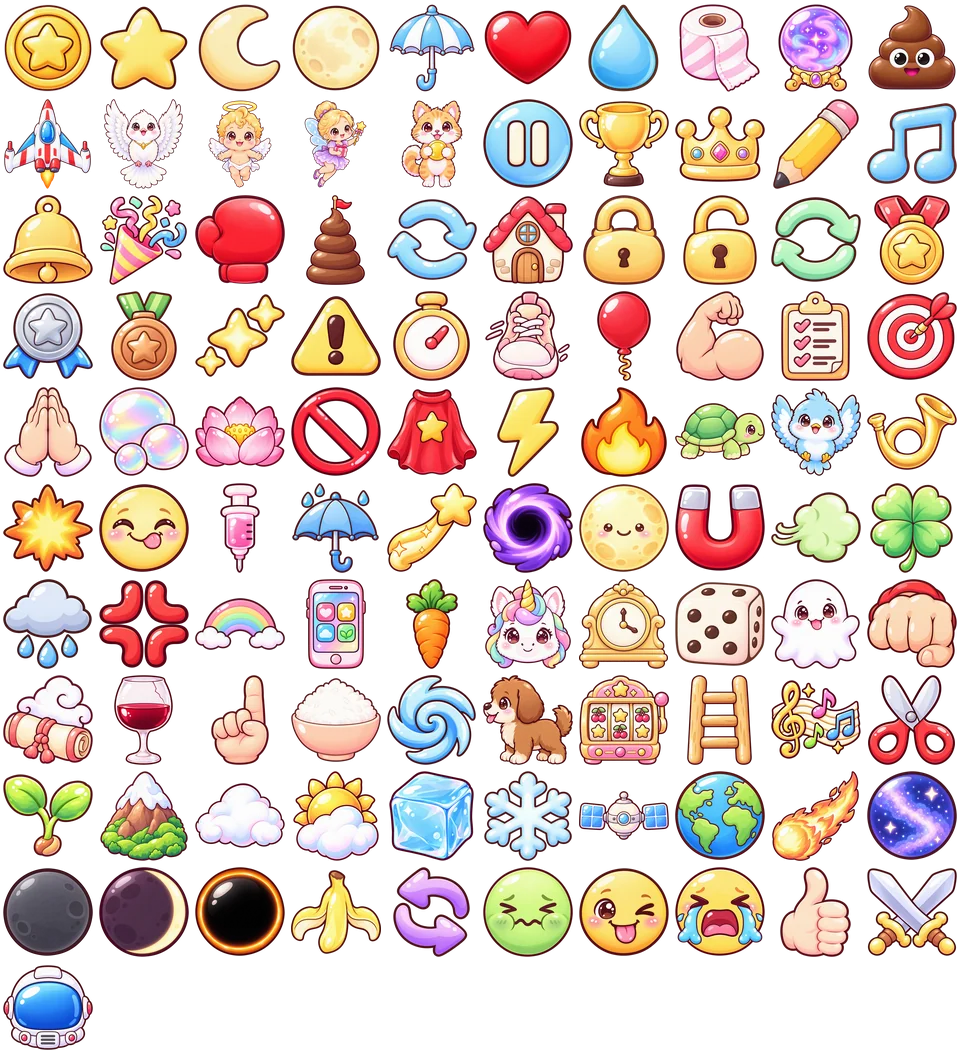
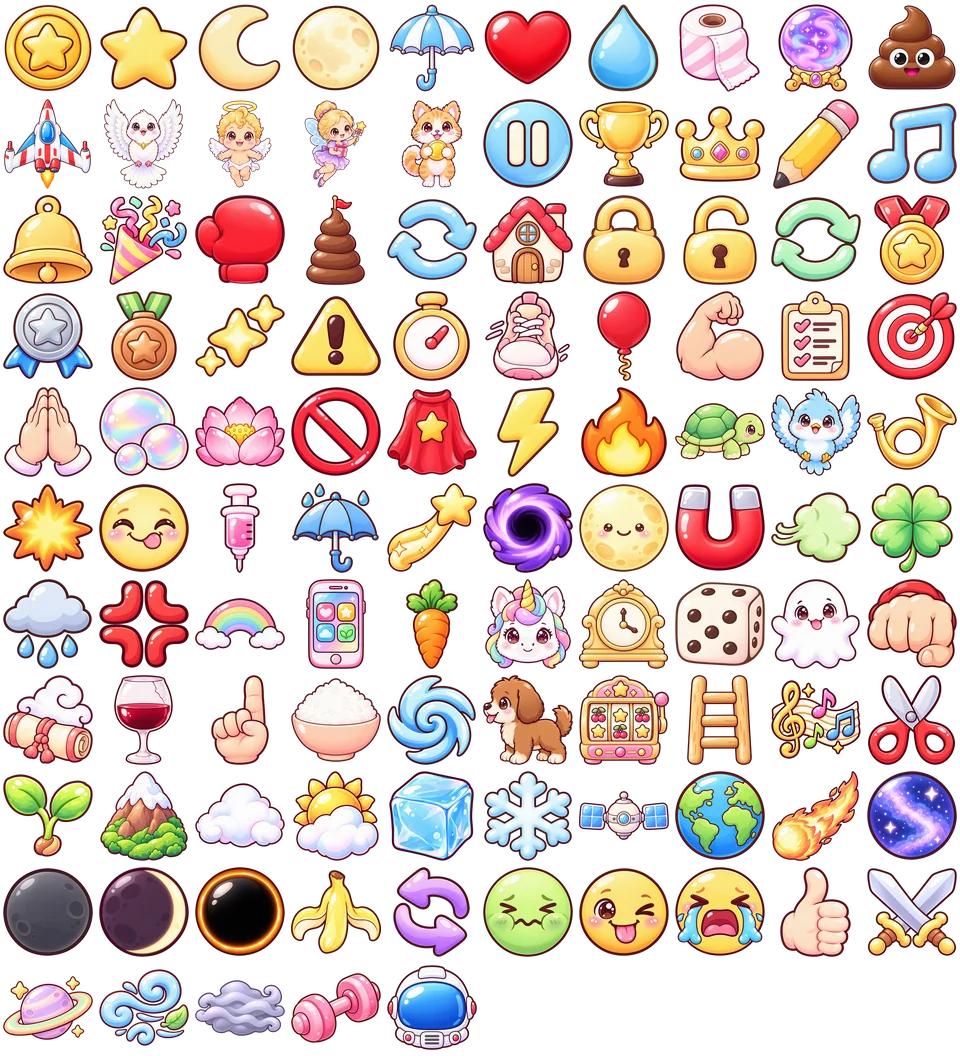
v0.8.51 대전: 판 규칙 룰렛(로블록스판 8종)·시작 달 둘, 외줄 타기 설명 줄임

Changed region(s): [[0.0, 0.9062, 0.5, 1.0]]

diff --git a/index.html b/index.html
@@ -1093,7 +1093,7 @@
        밀어 숨길 뿐 남겨 두어 textContent 가 그대로다(글자를 읽는 코드가 안 깨진다). 나중에 붙는 글자는 MutationObserver 가 잡는다.
      · 캔버스 글자: fillText/strokeText 를 감싸 이모지 자리에 그림을 그린다 — 자리 폭은 원래 이모지 폭 그대로라 배치가 안 바뀐다.
      그림이 아직 안 왔거나 목록에 없는 이모지는 원래 이모지로 나온다. */
-  /*ICONS-BEGIN*/ const ICON_KEYS = ["🪙", "⭐", "🌙", "🌕", "☂", "❤", "💧", "🧻", "🔮", "💩", "🚀", "🕊", "👼", "🧚", "🐈", "⏸", "🏆", "👑", "✏", "🎵", "🔔", "🎉", "🥊", "🗼", "🔄", "🏠", "🔒", "🔓", "🔁", "🥇", "🥈", "🥉", "✨", "⚠", "⏱", "🏃", "🎈", "💪", "📋", "🎯", "🙏", "🫧", "🧘", "🚫", "🦸", "⚡", "🔥", "🐢", "🐦", "📯", "💥", "😋", "💉", "☔", "🌠", "🕳", "🌝", "🧲", "💨", "🍀", "🌧", "💢", "🌈", "📱", "🥕", "🦄", "🕰", "🎲", "👻", "👊", "👯", "🍷", "☝", "🍚", "🌀", "🐕", "🎰", "🪜", "🎼", "✂", "🌱", "⛰", "☁", "🌤", "🧊", "❄", "🛰", "🌍", "☄", "🌌", "🌑", "🌒", "⚫", "🍌", "😵", "🤢", "😜", "😭", "👍", "⚔", "🧑🚀"]; const ICON_COLS = 10, ICON_ROWS = 11, ICON_CELL = 96; /*ICONS-END*/
+  /*ICONS-BEGIN*/ const ICON_KEYS = ["🪙", "⭐", "🌙", "🌕", "☂", "❤", "💧", "🧻", "🔮", "💩", "🚀", "🕊", "👼", "🧚", "🐈", "⏸", "🏆", "👑", "✏", "🎵", "🔔", "🎉", "🥊", "🗼", "🔄", "🏠", "🔒", "🔓", "🔁", "🥇", "🥈", "🥉", "✨", "⚠", "⏱", "🏃", "🎈", "💪", "📋", "🎯", "🙏", "🫧", "🧘", "🚫", "🦸", "⚡", "🔥", "🐢", "🐦", "📯", "💥", "😋", "💉", "☔", "🌠", "🕳", "🌝", "🧲", "💨", "🍀", "🌧", "💢", "🌈", "📱", "🥕", "🦄", "🕰", "🎲", "👻", "👊", "👯", "🍷", "☝", "🍚", "🌀", "🐕", "🎰", "🪜", "🎼", "✂", "🌱", "⛰", "☁", "🌤", "🧊", "❄", "🛰", "🌍", "☄", "🌌", "🌑", "🌒", "⚫", "🍌", "😵", "🤢", "😜", "😭", "👍", "⚔", "🪐", "🌬", "🌫", "🏋", "🧑🚀"]; const ICON_COLS = 10, ICON_ROWS = 11, ICON_CELL = 96; /*ICONS-END*/
   const ICON_IDX = new Map(ICON_KEYS.map((k, i) => [k, i]));
   const ICON_RE = ICON_KEYS.length ? new RegExp("(" + ICON_KEYS.slice().sort((a, b) => b.length - a.length)
     .map(k => k.replace(/[.*+?^${}()|[\]\\]/g, "\\$&")).join("|") + ")\\uFE0F?", "gu") : null;
@@ -1212,7 +1212,7 @@
   const elTitle = document.getElementById("overTitle");
   const coinNote = document.getElementById("coinNote");
 
-  const GAME_VERSION = "v0.8.50";
+  const GAME_VERSION = "v0.8.51";
   /* 제작사 스플래시(bamhobak friends 로고) — 2026-09-20 끔. 다시 켜려면 true */
   const SPLASH_USE = false;   // 코드를 고칠 때마다 뒤 두 자리를 올린다
   document.getElementById("ver").textContent = GAME_VERSION;
@@ -2898,7 +2898,7 @@
        이미 가진 것은 고른 횟수만큼 그때 감쇠 그대로 한 번씩 더 걸고, 앞으로 고르는 것은 두 번씩 건다(augApply).
        한 번만 먹는 증강(자석·대시·히든 등 켜고 끄는 것)은 두 번 걸어도 같아서 뺀다.
        목숨 대신 오염도로 버티는 방울이에겐 안 나온다. 하트 3개 이상일 때만 */
-    { id: "rope",       ic: "☝", nm: "외줄 타기", ds: "목숨이 1개로! 대신 가진 증강 효과가 전부 두 배 (앞으로 먹는 것도, 펫 증강 빼고)",
+    { id: "rope",       ic: "☝", nm: "외줄 타기", ds: "목숨이 단 한개! 대신 모든 증강 효과가 두 배",
       hidden: true, once: true, cond: () => !dirtJob() && lives >= 3,
       go: () => {
         aug.rope = true; lives = 1; aug.maxLives = 1;
@@ -6889,6 +6889,7 @@
     if (special === "huge") vy *= 0.55;   // 덩치값 — 느릿느릿 굴러떨어진다
     let px = r + Math.random() * (W - r * 2);
     let pvx = (Math.random() - Math.random()) * vy * SPREAD_POOP;
+    if (ruleOn("wind")) pvx += vsRuleWind * (H / BASE_H);   // 대전 규칙 — 바람
     // 틈 지키기 — 뚜니핑 낙하물·무지개똥은 막는 똥이 아니고, 지그재그·분열은 자리가 바뀌어 빼고 본다
     if (!inFever && !gold && special !== "laser" && special !== "zigzag" && special !== "split") {
       const fx = fairPlace(px, r * (special === "huge" ? 0.70 : 0.82), pvx, vy, -r - 10);
@@ -7830,7 +7831,8 @@
           }
         }
         spawnTimer = spawnGap() / DIFF_F / spaceF() / bhDiff() * widthFactor * (0.7 + Math.random() * 0.6)
-                   / (prophIs("dice") ? 1.5 : 1);        // 운명의 주사위 — 똥 1.5배
+                   / (prophIs("dice") ? 1.5 : 1)         // 운명의 주사위 — 똥 1.5배
+                   / (ruleOn("poop2x") ? 2 : 1);         // 대전 규칙 — 똥 두 배
       }
     }
     /* 쌓인 몫만큼 코인을 떨어뜨린다. 몫은 똥 하나가 나올 때마다 spawnPoop 에서
@@ -8517,17 +8519,17 @@
     if (stunned(b, performance.now())) return;         // 밟혀서 멈춘 동안엔 못 뛴다
     if ((b.jh || 0) > 1) {                             // 공중 — 더블 점프 증강이 있으면 한 번 더
       if (!vsHas(b, "dj") || b.dj2) return;
-      b.dj2 = true; b.jv = JUMP_V * 0.9;
+      b.dj2 = true; b.jv = JUMP_V * 0.9 * (ruleOn("lowgrav") ? RULE_LOWGRAV_V : 1);
       beep(820, .07, "triangle", .04);
       return;
     }
     b.dj2 = false;
-    b.jv = JUMP_V; b.jh = 0.5;
+    b.jv = JUMP_V * (ruleOn("lowgrav") ? RULE_LOWGRAV_V : 1); b.jh = 0.5;
     beep(620, .07, "triangle", .04);
   }
   function stepJump(b, dt) {
     if (!b.jh && !b.jv) return;
-    let g = JUMP_G;
+    let g = JUMP_G * (ruleOn("lowgrav") ? RULE_LOWGRAV : 1);
     if (b.jv < 0 && jobOf(b) === "levitator" && (b.floatT || 0) < VS_FLOAT_SEC) {   // 부양사 — 떨어질 때 잠깐 둥실
       b.floatT = (b.floatT || 0) + dt; g *= VS_FLOAT_G;
       if (b.jv < -160) b.jv = -160;
@@ -8613,7 +8615,9 @@
     rival.lives = VS_LIVES; rival.inv = 0; rival.hurt = 0; rival.facing = "left"; rival.kv = 0;
     rival.jh = rival.jv = 0; player.jh = player.jv = 0; rival.stun = player.stun = 0;
     player.vaug = {}; rival.vaug = {}; player.rl = rival.rl = null; rival.shield = 0;
-    player.dj2 = rival.dj2 = false; vsMoonT = 5;          // 첫 달은 5초 뒤
+    player.dj2 = rival.dj2 = false; vsMoonT = 3; vsMoonTwin = true;   // 첫 달은 3초 뒤 좌우에 하나씩
+    vsRule = null; vsRuleSlim = false;
+    if (NET.role !== "guest") vsRuleRoll();               // 판 규칙 — 들어온 쪽은 방장 것을 받는다
     player.emo = rival.emo = null;
     bubbleOn = job === "bangul"; rival.bubble = rivalJob === "bangul";   // 방울이 — 판마다 한 번 막는 비누방울
     player.floatT = rival.floatT = 0;
@@ -8786,8 +8790,8 @@
         const a1 = Math.max(0, p1vx * dir), a2 = Math.max(0, -rival.vx * dir);   // 상대 쪽으로 달려든 빠르기
         // 박치기면 1.6배 멀리, 무거운 몸이면 절반만 밀린다
         const fitK = b => jobOf(b) === "fit" ? VS_FIT_RAM : 1;   // 헬스걸 몸통 박치기
-        const kv2 = dir * VS_KNOCK * (260 + a1 * 1.35) * (vsHas(player, "ram") ? 1.6 : 1) * fitK(player) * (vsHas(rival, "heavy") ? 0.5 : 1);
-        p1kv -= dir * VS_KNOCK * (260 + a2 * 1.35) * (vsHas(rival, "ram") ? 1.6 : 1) * fitK(rival) * (vsHas(player, "heavy") ? 0.5 : 1);
+        const kv2 = dir * VS_KNOCK * (ruleOn("shove2x") ? 2 : 1) * (260 + a1 * 1.35) * (vsHas(player, "ram") ? 1.6 : 1) * fitK(player) * (vsHas(rival, "heavy") ? 0.5 : 1);
+        p1kv -= dir * VS_KNOCK * (ruleOn("shove2x") ? 2 : 1) * (260 + a2 * 1.35) * (vsHas(rival, "ram") ? 1.6 : 1) * fitK(rival) * (vsHas(player, "heavy") ? 0.5 : 1);
         vsBumpCd = 0.22;
         const cx = (player.x + rival.x) / 2, cy = player.y + player.hy;
         const hard = Math.max(a1, a2) > 350 * VS_MOVE;
@@ -9032,11 +9036,89 @@
     }
   }
   // 달 — 방장(한 폰)이 떨어뜨린다
+  /* ---------- 🎰 판 규칙 룰렛 (v0.8.51, 로블록스판 Rules.luau 에서) ----------
+     판이 열리면 방장(한 폰·봇 연습은 이 폰)이 규칙 하나를 뽑는다. 처음 VS_RULE_SPIN 초는 룰렛이 돌고, 멈추면 그때부터 걸린다.
+     들어온 쪽은 스냅샷(ru)으로 받는다. 시계는 판 시간(elapsed)이라 두 폰이 같은 순간에 걸린다.
+     바람은 방장이 똥을 만들 때 옆으로 미는 것이라 방장만 알면 된다(들어온 쪽은 받은 속도로 그린다). */
+  const VS_RULES = [
+    { id: "lowgrav", ic: "🪐", nm: "저중력",     ds: "둥실둥실 — 점프가 높고 길어진다", w: 10 },
+    { id: "poop2x",  ic: "💩", nm: "똥 두 배",   ds: "똥이 두 배로 쏟아진다", w: 10 },
+    { id: "shove2x", ic: "💥", nm: "밀치기 두 배", ds: "몸싸움으로 튕기는 거리·힘이 두 배", w: 10 },
+    { id: "reverse", ic: "😵", nm: "좌우 반대",  ds: "왼쪽으로 끌면 오른쪽으로 간다", w: 8 },
+    { id: "slim",    ic: "🎯", nm: "전원 홀쭉이", ds: "모두 몸집이 30% 작아진다", w: 10 },
+    { id: "wind",    ic: "🌬", nm: "바람",       ds: "똥이 한쪽으로 쓸려 내려온다", w: 10 },
+    { id: "fog",     ic: "🌫", nm: "안개",       ds: "하늘 위쪽이 안 보인다 — 똥이 늦게 보인다", w: 8 },
+    { id: "heavy",   ic: "🏋", nm: "무거움",     ds: "모두 걸음이 25% 느려진다", w: 8 },
+  ];
+  const VS_RULE_SPIN = 1.8, VS_RULE_SHOW = 3;       // 룰렛 도는 시간 · 멈춘 뒤 크게 보여 주는 시간(초)
+  const RULE_LOWGRAV = 0.4, RULE_LOWGRAV_V = Math.sqrt(2 * 0.4);   // 중력 0.4배, 점프 높이 2배 (높이 = v²/2g)
+  const RULE_WIND = 70, RULE_FOG_TOP = 0.42, RULE_SLIM = 0.7, RULE_HEAVY = 0.75;
+  let vsRule = null, vsRuleWind = 0, vsRuleSlim = false;
+  function vsRuleRoll() {
+    let x = Math.random() * VS_RULES.reduce((t, r) => t + r.w, 0), pick = VS_RULES[VS_RULES.length - 1];
+    for (const r of VS_RULES) { if (x < r.w) { pick = r; break; } x -= r.w; }
+    vsRule = pick.id;
+    vsRuleWind = (Math.random() < 0.5 ? -1 : 1) * RULE_WIND;
+  }
+  function ruleOn(id) { return vsOn() && vsRule === id && elapsed >= VS_RULE_SPIN; }
+  // 매 프레임 (두 폰 모두) — 홀쭉이는 멈추는 순간 한 번 줄인다
+  function vsRuleStep() {
+    if (!vsRuleSlim && ruleOn("slim")) { vsRuleSlim = true; aug.hitboxMul *= RULE_SLIM; }
+  }
+  // 안개 — 하늘 위쪽을 덮는다 (위쪽 상태 줄보다 먼저 그려 목숨·시계는 보이게)
+  function drawVsFog() {
+    if (!ruleOn("fog")) return;
+    const k = Math.min(1, (elapsed - VS_RULE_SPIN) / 0.8), h = H * RULE_FOG_TOP;
+    const g = ctx.createLinearGradient(0, 0, 0, h * 1.25);
+    g.addColorStop(0, "rgba(226,232,240," + (0.97 * k) + ")");
+    g.addColorStop(0.72, "rgba(226,232,240," + (0.93 * k) + ")");
+    g.addColorStop(1, "rgba(226,232,240,0)");
+    ctx.fillStyle = g; ctx.fillRect(0, 0, W, h * 1.25);
+  }
+  // 룰렛 — 처음엔 가운데에서 돌고, 멈추면 크게 보였다가 시계 아래 작은 딱지로 남는다
+  function drawVsRule(top) {
+    if (!vsRule) return;
+    const r = VS_RULES.find(q => q.id === vsRule);
+    if (!r) return;
+    ctx.save();
+    ctx.textAlign = "center"; ctx.textBaseline = "middle";
+    if (elapsed < VS_RULE_SPIN + VS_RULE_SHOW) {
+      const spin = elapsed < VS_RULE_SPIN;
+      const show = spin ? VS_RULES[Math.floor(elapsed * 14) % VS_RULES.length] : r;
+      const cy = H * 0.3, pop = spin ? 1 : 1 + 0.15 * Math.max(0, 1 - (elapsed - VS_RULE_SPIN) * 4);
+      ctx.fillStyle = "rgba(10,14,30,.72)";
+      ctx.beginPath(); ctx.roundRect(W / 2 - 150, cy - 46, 300, spin ? 70 : 96, 16); ctx.fill();
+      ctx.font = "800 13px NanumBarunGothic, system-ui, sans-serif"; ctx.fillStyle = "#ffd23f";
+      ctx.fillText(spin ? "🎰 이번 판 규칙은…" : "🎰 이번 판 규칙", W / 2, cy - 30);
+      ctx.font = "900 " + Math.round(24 * pop) + "px NanumBarunGothic, system-ui, sans-serif"; ctx.fillStyle = "#fff";
+      ctx.fillText(show.ic + " " + show.nm, W / 2, cy);
+      if (!spin) {
+        ctx.font = "700 12.5px NanumBarunGothic, system-ui, sans-serif"; ctx.fillStyle = "#cfe4ff";
+        ctx.fillText(r.ds, W / 2, cy + 30);
+      }
+    } else {
+      ctx.font = "800 12px NanumBarunGothic, system-ui, sans-serif";
+      const t = r.ic + " " + r.nm;
+      ctx.lineWidth = 3; ctx.lineJoin = "round"; ctx.strokeStyle = "rgba(0,0,0,.5)"; ctx.strokeText(t, W / 2, top + 50);
+      ctx.fillStyle = "#ffd23f"; ctx.fillText(t, W / 2, top + 50);
+    }
+    ctx.restore();
+  }
+  /* 달 — 판 시작 3초 뒤엔 좌우 양쪽에 하나씩 동시에 곧게 떨어지고(빠르기는 저마다 무작위, v0.8.51),
+     그 뒤로는 VS_MOON_MIN~MAX 초마다 하나씩 */
+  let vsMoonTwin = false;
   function vsMoonStep(dt) {
     vsMoonT -= dt;
     if (vsMoonT > 0) return;
     vsMoonT = VS_MOON_MIN + Math.random() * (VS_MOON_MAX - VS_MOON_MIN);
     const r = 20 * 0.945 * ITEM_SCALE;
+    if (vsMoonTwin) {
+      vsMoonTwin = false;
+      for (const fx of [0.2, 0.8])
+        items.push({ type: "moon", emoji: "🌙", x: W * fx, y: -r - 10, r,
+                     vx: 0, vy: 150 * (H / BASE_H) * (0.6 + Math.random() * 0.9), rot: 0, vr: 0, size: r * 2, bob: Math.random() * 6.28, born: elapsed });
+      return;
+    }
     items.push({ type: "moon", emoji: "🌙", x: r + Math.random() * (W - r * 2), y: -r - 10, r,
                  vx: 0, vy: 150 * (H / BASE_H), rot: 0, vr: 0, size: r * 2, bob: Math.random() * 6.28, born: elapsed });
   }
@@ -9289,7 +9371,7 @@
   let vsPeels = [], vsIce = [], vsPigeons = [];
   function vsStinkR() { return vsR() * 4; }
   function vsOther(b) { return b === player ? rival : player; }
-  function vsReversed(b, now) { return now < (b.revUntil || 0); }
+  function vsReversed(b, now) { return now < (b.revUntil || 0) || ruleOn("reverse"); }
   function vsOnIce(b) { return (b.jh || 0) < 4 && vsIce.some(z => b.x >= z.x0 && b.x <= z.x1); }
   function vsInStink(b) {
     const o = vsOther(b);
@@ -9305,7 +9387,7 @@
       return;
     }
     if (stunned(b, now)) { b.iv = 0; return; }
-    const maxS = PLAYER_MAX_SPEED * VS_MOVE * (vsInStink(b) ? 0.5 : 1);
+    const maxS = PLAYER_MAX_SPEED * VS_MOVE * (vsInStink(b) ? 0.5 : 1) * (ruleOn("heavy") ? RULE_HEAVY : 1);
     const desired = Math.max(-maxS, Math.min(maxS, (b.tx - b.x) * 20));
     b.iv = vsOnIce(b) ? (b.iv || 0) + (desired - (b.iv || 0)) * Math.min(1, dt * 1.6) : desired;   // 얼음 위는 늦게 서고 늦게 돈다
     b.x = Math.max(lo, Math.min(hi, b.x + b.iv * dt));
@@ -9338,6 +9420,7 @@
   }
   // 매 프레임 — 껍질·얼음·구름·비둘기 (방장·한 폰은 vsUpdate, 들어온 쪽은 guestUpdate)
   function vsWorldStep(dt, now) {
+    vsRuleStep();
     for (let i = vsPeels.length - 1; i >= 0; i--) { vsPeels[i].t -= dt; if (vsPeels[i].t <= 0) vsPeels.splice(i, 1); }
     for (let i = vsIce.length - 1; i >= 0; i--) { vsIce[i].t -= dt; if (vsIce[i].t <= 0) vsIce.splice(i, 1); }
     for (const b of [player, rival]) if (b.stinkT > 0) b.stinkT = Math.max(0, b.stinkT - dt);
@@ -9671,7 +9754,7 @@
                 it.dark ? 1 : 0, it.dv || 0, it.special || "", Math.round((it.rot || 0) * 100) / 100, it.type === "moon" ? "m" : ""]);
     }
     netSend("s", {
-      ts: Math.round(now), t: elapsed, lt: levelTime, x: Math.round(player.x), vx: Math.round(player.vx || 0), f: facing === "left" ? 1 : 0,
+      ts: Math.round(now), t: elapsed, lt: levelTime, ru: vsRule, x: Math.round(player.x), vx: Math.round(player.vx || 0), f: facing === "left" ? 1 : 0,
       tl: Math.round(player.tilt * 100) / 100, h: Math.max(0, Math.round(hurtUntil - now)), i: Math.max(0, Math.round(invUntil - now)),
       l: lives, gl: rival.lives, it: withItems ? its : undefined, jh: Math.round(player.jh || 0), jv: Math.round(player.jv || 0),
       sn: Math.max(0, Math.round((player.stun || 0) - now)), sh: shields, bb: bubbleOn ? 1 : 0, tx: Math.round(player.tx),
@@ -9792,6 +9875,7 @@
     const si = NET.itSnap || s;                          // 똥 목록은 직접 연결이면 두 번에 한 번 온다
     const ageI = NET.itSnap ? (now - NET.itAt) / 1000 : age;
     const lead = ageI + (RTC.open ? RTC_LAT : NET_LAT);
+    if (s && s.ru && !vsRule) vsRule = s.ru;            // 판 규칙 (방장이 뽑은 것)
     const smp = netSample(now);                          // 방장 몸 — 받은 자리들 사이를 이어 그린다 (v0.8.34)
     if (smp) {
       rival.x = Math.max(player.r, Math.min(W - player.r, smp.x)); rival.vx = smp.vx; rival.jh = smp.jh; rival.jv = smp.jv;
@@ -9980,7 +10064,7 @@
       if (vsBumpCd <= 0) {
         const a1 = Math.max(0, myvx * dir), a2 = Math.max(0, -(rival.vx || 0) * dir);
         const fitK = b => jobOf(b) === "fit" ? VS_FIT_RAM : 1;
-        p1kv -= dir * VS_KNOCK * (260 + a2 * 1.35) * (vsHas(rival, "ram") ? 1.6 : 1) * fitK(rival) * (vsHas(player, "heavy") ? 0.5 : 1);
+        p1kv -= dir * VS_KNOCK * (ruleOn("shove2x") ? 2 : 1) * (260 + a2 * 1.35) * (vsHas(rival, "ram") ? 1.6 : 1) * fitK(rival) * (vsHas(player, "heavy") ? 0.5 : 1);
         vsBumpCd = 0.22;
         const hard = Math.max(a1, a2) > 350 * VS_MOVE, cx = (player.x + rival.x) / 2, cy = player.y + player.hy;
         burst(cx, cy, "#ffe08a", hard ? 18 : 8);
@@ -12881,7 +12965,7 @@
   function drawHud() {
     ctx.save();
     const top = 14;
-    if (vsOn()) { drawVsHud(top); ctx.restore(); return; }
+    if (vsOn()) { drawVsFog(); drawVsHud(top); drawVsRule(top); ctx.restore(); return; }
     ctx.textAlign = "left";
     ctx.textBaseline = "top";
     ctx.font = "700 21px NanumBarunGothic, system-ui, sans-serif";

diff --git a/tools/icon_list.py b/tools/icon_list.py
@@ -99,6 +99,11 @@ NEW = [
     ("😭", "sob", "a round yellow emoji face crying loudly with streams of tears"),
     ("👍", "thumbsup", "a cartoon thumbs-up hand"),
     ("⚔", "swords", "two crossed cartoon swords with golden hilts and shiny silver blades (battle symbol)"),
+    # 대전 판 규칙 룰렛 (로블록스판 tools/sprites/rule_*.png 를 가져왔다)
+    ("🪐", "rule_lowgrav", "a pastel purple ringed planet with sparkles (low gravity)"),
+    ("🌬", "rule_wind", "swirling blue wind gusts with a green leaf"),
+    ("🌫", "rule_fog", "a thick lavender-grey fog cloud"),
+    ("🏋", "rule_heavy", "a chubby pink dumbbell"),
     ("🧑🚀", "astronaut", "a white astronaut helmet with a big glossy blue visor (helmet only, nobody inside)"),
 ]
 

diff --git a/README.md b/README.md
@@ -5,7 +5,7 @@
 👉 **플레이: https://bamhobak.github.io/ddongpi/**
 
 > 이 문서는 `index.html` 의 실제 값을 옮겨 적은 것입니다. 숫자를 고쳤으면 여기도 같이 고쳐 주세요.
-> 마지막으로 맞춰 본 판: **v0.8.50**
+> 마지막으로 맞춰 본 판: **v0.8.51**
 
 ## ⚔ 대전모드 (v0.8.24 한 폰 · v0.8.25 두 폰)
 시작하기를 누르면 **[방 만들기] · [방 참가](방 번호 4자리) · [한 폰으로 둘이서]** 를 고릅니다.
@@ -64,6 +64,10 @@
   로비에서 제 캐릭터를 고릅니다(한 폰은 P1 — P2 는 방울이, P1 이 방울이면 쉬었음 청년). 처음엔 다섯만:
   쉬었음 청년(능력 없음) · 부양사(떨어질 때 0.6초 둥실) · 헬스걸(들이받으면 1.3배) · 방울이(판마다 똥 한 번 막는 비누방울) · 점술가(상대가 가려는 쪽 화살표).
 - **이모티콘 도발** (v0.8.30, 두 폰만): 판 중 오른쪽 아래 버튼 넷(😜 💩 😭 👍) — 내 머리 위에 뜨고 상대에게도 보입니다(`emo`). 채팅은 없습니다. 1초에 한 번까지.
+- **🎰 판 규칙 룰렛** (v0.8.51, 로블록스판 `Rules.luau` 에서): 판이 열리면 1.8초 룰렛이 돌아 하나가 정해지고 그때부터 걸린다(3초 크게 보인 뒤 시계 아래 작은 딱지).
+  🪐 저중력(중력 0.4·점프 2배) · 💩 똥 두 배 · 💥 밀치기 두 배 · 😵 좌우 반대 · 🎯 전원 홀쭉이(몸 0.7) · 🌬 바람(똥이 한쪽으로, 방향은 판마다) · 🌫 안개(위 42% 가림) · 🏋 무거움(걸음 0.75).
+  가중치 10·10·10·8·10·10·8·8. 방장(한 폰·봇은 이 폰)이 뽑고 들어온 쪽은 스냅샷 `ru` 로 받는다. 아이콘 넷은 로블록스판 `tools/sprites/rule_*.png` 를 가져왔다.
+- **시작 달 둘** (v0.8.51): 판 시작 3초 뒤 좌우(화면 20%·80%)에 달이 하나씩 동시에 곧게 떨어진다(빠르기는 저마다 무작위 0.6~1.5배). 그 뒤로는 8~12초마다 하나.
 - **👊 어퍼컷** (v0.8.46): 아래로 쓸면(키보드 S·↓) 가까운 상대 쪽으로 주먹을 올려 친다 — 옆 vsR×4.2 안·높이 비슷하면 맞고,
   맞은 쪽은 위로 약 89 떠서 옆으로 밀려난다(무거운 몸은 덜). 0.8초에 한 번, 목숨은 안 깎음. 두 폰은 친 쪽 폰이 판정해 `launch`(v·kv)를, 휘두른 모습은 `upc` 로 보낸다. 봇도 붙으면 가끔 친다.
 - **v0.8.46 조정**: 기본 점프·들이받기 높이 10% 낮춤(`JUMP_V` 721 · `HEADBUTT_V` 854), 몸싸움 튕김 거리 절반(`VS_KNOCK = 0.5`).
